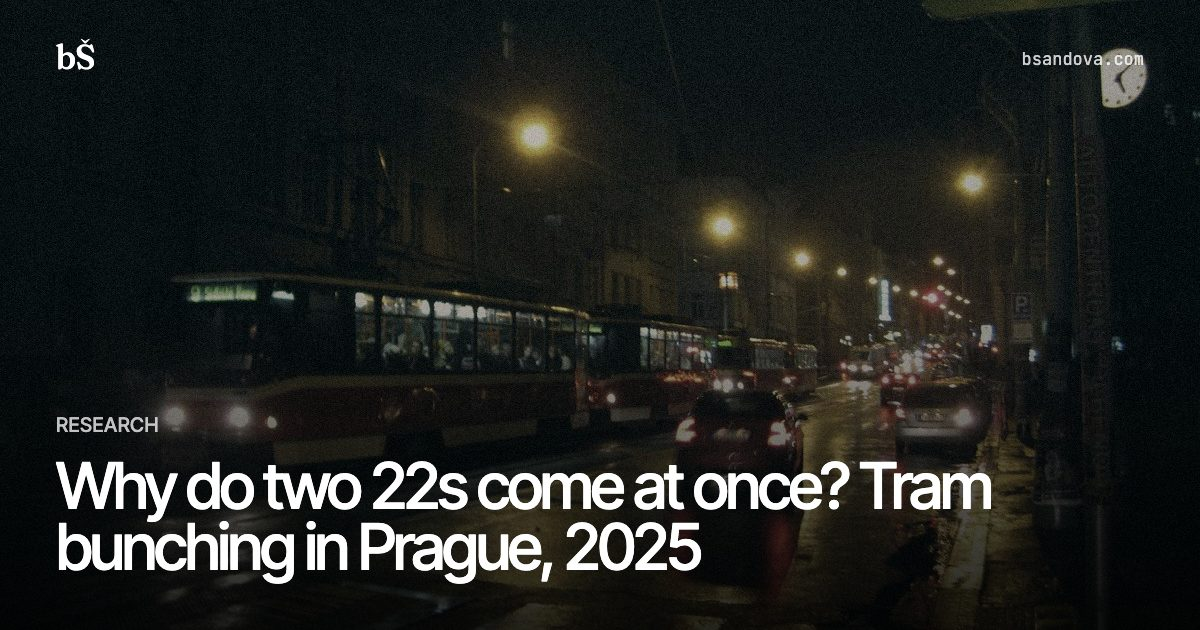
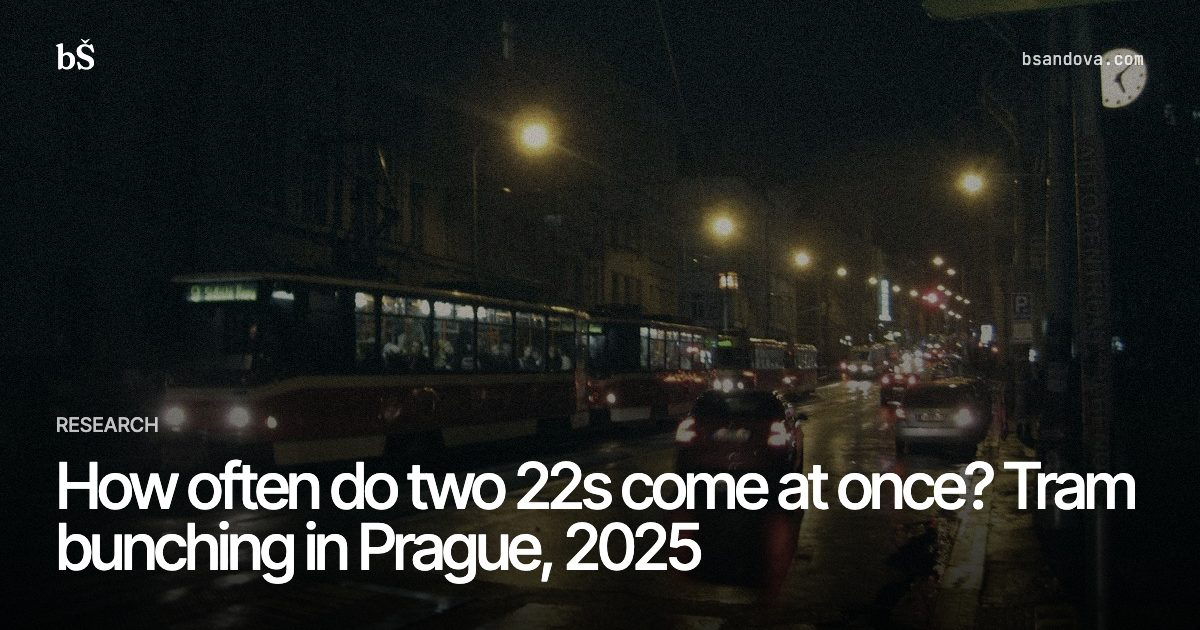
hotfix(bunching): retitle part 2 to how often two 22s come at once

Changed region(s): [[0.0308, 0.7238, 0.9558, 0.8444]]

diff --git a/texts/bunching.html b/texts/bunching.html
@@ -3,9 +3,9 @@
 <head>
 <meta charset="utf-8">
 <meta name="viewport" content="width=device-width, initial-scale=1">
-<title>Why do two 22s come at once? Tram bunching in Prague, 2025</title>
+<title>How often do two 22s come at once? Tram bunching in Prague, 2025</title>
 <meta name="description" content="A pre-specified analysis of 243 465 pairs of Prague trams in 2025: the spacing between two trams of a line drifts apart and together stop by stop with practically no amplification, bunches build gradually towards the end of a line, and the rare sudden closings concentrate on some platforms, and partly by line.">
-<meta property="og:title" content="Why do two 22s come at once? Tram bunching in Prague, 2025">
+<meta property="og:title" content="How often do two 22s come at once? Tram bunching in Prague, 2025">
 <meta property="og:description" content="Two trams of the same Prague line drift apart and together stop by stop with practically no amplification; bunches build slowly towards the end of the line. Part 2 of Running late.">
 <meta property="og:type" content="article">
 <meta property="og:url" content="https://bsandova.com/texts/bunching">
@@ -33,7 +33,7 @@
 <article class="text">
 <header class="text-head">
   <p class="kicker">Research · Running late, part 2 · Prague trams and buses, spring and summer 2025</p>
-  <h1>Why do two 22s come at once? <em>Tram bunching in Prague, 2025</em></h1>
+  <h1>How often do two 22s come at once? <em>Tram bunching in Prague, 2025</em></h1>
   <p class="deck">Followed stop by stop, the spacing between two trams of the same line shows practically no amplification, inconclusive by the registered rule, and bunches build gradually towards the end of a line.</p>
   <dl class="facts">
     <div><dt>amplification per stop</dt><dd>−0.0012 <small>95 % confidence interval (CI) −0.0018 to −0.0006 · inconclusive (wholly below zero), practically zero</small></dd></div>
@@ -53,7 +53,7 @@
   </ul>
 </details>
 <dl class="meta">
-  <div><dt>published</dt><dd>8 October 2026 · updated 8 October 2026 · <a href="../changelog/#bunching">version 2</a></dd></div>
+  <div><dt>published</dt><dd>8 October 2026 · updated 9 October 2026 · <a href="../changelog/#bunching">version 3</a></dd></div>
   <div><dt>work since</dt><dd>October 2026</dd></div>
 </dl>
 <details class="meta-more">
@@ -64,7 +64,7 @@
   <div><dt>registration</dt><dd>design committed at <code>2b78211</code> (tag <code>late-bunching-design</code>) on 8 October 2026, before any headway was computed; screening at <code>65789a6</code> (tag <code>late-bunching-screen</code>); estimation code frozen with tests at <code>83f91ec</code> (tag <code>late-bunching-v1</code>), with the change of the primary estimand logged before it; results at <code>8dc4eea</code> (tag <code>late-bunching-results</code>). Commit times are self-reported; the tags were added after publication and are not independent timestamps. Arrival times had been read before for <a href="weather-rails">Weather on the rails</a> and <a href="delay-origins">part 1</a>, never as the spacing between two trams. Described after the results, not registered: how bunches form, the deeper instruments, intervals for two variants, the volatility of the platforms, the busiest places, the pooling of swaps in the comparison with the shuffle, line 9 and the ratio without it, the autocorrelation of the changes, the power simulation for the stability test, and the checks on buses (<code>tools/bunch/describe.py</code>, <code>describe_bus.py</code>); added after publication, the null within route variants and the estimates by line (<code>review.py</code>). Changes after registration and after publication, each dated, are in <a href="../changelog/#bunching-changes">the change log</a>.</dd></div>
   <div><dt>data</dt><dd>Prague Integrated Transport stop-time history via Golemio, 15 March – 8 September 2025, as used in the author's master's thesis<sup class="cite"><a href="#r1">1</a></sup><sup class="cite"><a href="#r2">2</a></sup>; stop positions from the PID timetable data<sup class="cite"><a href="#r3">3</a></sup>. The passes are not redistributed; the per-segment values are in <a href="../assets/bunch/segments.json">segments.json</a>, the estimates in <a href="../assets/bunch/results.json">results.json</a> and <a href="../assets/bunch/results-bus.json">results-bus.json</a>, the descriptions in <a href="../assets/bunch/describe.json">describe.json</a> and <a href="../assets/bunch/review.json">review.json</a>.</dd></div>
   <div><dt>code</dt><dd><a href="https://github.com/sandovabarbora/bsandova.com/tree/main/tools/bunch">tools/bunch/</a>; rebuild: <code>uv run --with numpy --with pandas --with pyarrow --with scipy --with duckdb python tools/bunch/estimate.py</code></dd></div>
-  <div><dt>cite as</dt><dd>Šandová, B. (2026). <i>Why do two 22s come at once? Tram bunching in Prague, 2025</i>. bsandova.com/texts/bunching, version 2.</dd></div>
+  <div><dt>cite as</dt><dd>Šandová, B. (2026). <i>How often do two 22s come at once? Tram bunching in Prague, 2025</i>. bsandova.com/texts/bunching, version 3.</dd></div>
   <div><dt>licence</dt><dd>code MIT; text and figures CC BY 4.0</dd></div>
 </dl>
 </details>

diff --git a/tools/bunch/template.html b/tools/bunch/template.html
@@ -3,9 +3,9 @@
 <head>
 <meta charset="utf-8">
 <meta name="viewport" content="width=device-width, initial-scale=1">
-<title>Why do two 22s come at once? Tram bunching in Prague, 2025</title>
+<title>How often do two 22s come at once? Tram bunching in Prague, 2025</title>
 <meta name="description" content="A pre-specified analysis of {{pairs}} pairs of Prague trams in 2025: the spacing between two trams of a line drifts apart and together stop by stop with practically no amplification, bunches build gradually towards the end of a line, and the rare sudden closings concentrate on some platforms, and partly by line.">
-<meta property="og:title" content="Why do two 22s come at once? Tram bunching in Prague, 2025">
+<meta property="og:title" content="How often do two 22s come at once? Tram bunching in Prague, 2025">
 <meta property="og:description" content="Two trams of the same Prague line drift apart and together stop by stop with practically no amplification; bunches build slowly towards the end of the line. Part 2 of Running late.">
 <meta property="og:type" content="article">
 <meta property="og:url" content="https://bsandova.com/texts/bunching">
@@ -33,7 +33,7 @@
 <article class="text">
 <header class="text-head">
   <p class="kicker">Research · Running late, part 2 · Prague trams and buses, spring and summer 2025</p>
-  <h1>Why do two 22s come at once? <em>Tram bunching in Prague, 2025</em></h1>
+  <h1>How often do two 22s come at once? <em>Tram bunching in Prague, 2025</em></h1>
   <p class="deck">Followed stop by stop, the spacing between two trams of the same line shows practically no amplification, {{g_label}} by the registered rule, and bunches build gradually towards the end of a line.</p>
   <dl class="facts">
     <div><dt>amplification per stop</dt><dd>{{g}} <small>95 % confidence interval (CI) {{g_lo}} to {{g_hi}} · {{g_label}} (wholly below zero), practically zero</small></dd></div>
@@ -53,7 +53,7 @@
   </ul>
 </details>
 <dl class="meta">
-  <div><dt>published</dt><dd>8 October 2026 · updated 8 October 2026 · <a href="../changelog/#bunching">version 2</a></dd></div>
+  <div><dt>published</dt><dd>8 October 2026 · updated 9 October 2026 · <a href="../changelog/#bunching">version 3</a></dd></div>
   <div><dt>work since</dt><dd>October 2026</dd></div>
 </dl>
 <details class="meta-more">
@@ -64,7 +64,7 @@
   <div><dt>registration</dt><dd>design committed at <code>2b78211</code> (tag <code>late-bunching-design</code>) on 8 October 2026, before any headway was computed; screening at <code>65789a6</code> (tag <code>late-bunching-screen</code>); estimation code frozen with tests at <code>83f91ec</code> (tag <code>late-bunching-v1</code>), with the change of the primary estimand logged before it; results at <code>8dc4eea</code> (tag <code>late-bunching-results</code>). Commit times are self-reported; the tags were added after publication and are not independent timestamps. Arrival times had been read before for <a href="weather-rails">Weather on the rails</a> and <a href="delay-origins">part 1</a>, never as the spacing between two trams. Described after the results, not registered: how bunches form, the deeper instruments, intervals for two variants, the volatility of the platforms, the busiest places, the pooling of swaps in the comparison with the shuffle, line 9 and the ratio without it, the autocorrelation of the changes, the power simulation for the stability test, and the checks on buses (<code>tools/bunch/describe.py</code>, <code>describe_bus.py</code>); added after publication, the null within route variants and the estimates by line (<code>review.py</code>). Changes after registration and after publication, each dated, are in <a href="../changelog/#bunching-changes">the change log</a>.</dd></div>
   <div><dt>data</dt><dd>Prague Integrated Transport stop-time history via Golemio, 15 March – 8 September 2025, as used in the author's master's thesis<sup class="cite"><a href="#r1">1</a></sup><sup class="cite"><a href="#r2">2</a></sup>; stop positions from the PID timetable data<sup class="cite"><a href="#r3">3</a></sup>. The passes are not redistributed; the per-segment values are in <a href="../assets/bunch/segments.json">segments.json</a>, the estimates in <a href="../assets/bunch/results.json">results.json</a> and <a href="../assets/bunch/results-bus.json">results-bus.json</a>, the descriptions in <a href="../assets/bunch/describe.json">describe.json</a> and <a href="../assets/bunch/review.json">review.json</a>.</dd></div>
   <div><dt>code</dt><dd><a href="https://github.com/sandovabarbora/bsandova.com/tree/main/tools/bunch">tools/bunch/</a>; rebuild: <code>uv run --with numpy --with pandas --with pyarrow --with scipy --with duckdb python tools/bunch/estimate.py</code></dd></div>
-  <div><dt>cite as</dt><dd>Šandová, B. (2026). <i>Why do two 22s come at once? Tram bunching in Prague, 2025</i>. bsandova.com/texts/bunching, version 2.</dd></div>
+  <div><dt>cite as</dt><dd>Šandová, B. (2026). <i>How often do two 22s come at once? Tram bunching in Prague, 2025</i>. bsandova.com/texts/bunching, version 3.</dd></div>
   <div><dt>licence</dt><dd>code MIT; text and figures CC BY 4.0</dd></div>
 </dl>
 </details>

diff --git a/docs/changelogs/bunching.html b/docs/changelogs/bunching.html
@@ -11,6 +11,7 @@
 </ul>
 <h4>Change log</h4>
 <ul>
+<li>9 October 2026, version 3: retitled from "Why do two 22s come at once? Tram bunching in Prague, 2025" to "How often do two 22s come at once? Tram bunching in Prague, 2025" (URL unchanged): the study measures how often, not why; it locates bunching and sudden closings but does not identify a mechanism. No number changed.</li>
 <li>9 October 2026: the page description says the rare sudden closings concentrate on some platforms "and partly by line" instead of "partly because of one line", the wording of the article, which locates the closings but does not explain them. No number or finding changed.</li>
 <li>9 October 2026: the link to part 1 of Weather on the rails carries that article's new title, "Are Prague's trams later in rain hours?"; nothing else changed.</li>
 <li>8 October 2026, version 2, after an independent review: retitled "Why do two 22s come at once? Tram bunching in Prague, 2025" (the analysis covers pairs only; the URL is kept). Amplification relabelled from "not supported" to "inconclusive" (the registered rule had been applied in the wrong order), read as practically zero, with the sign flipping without timing-point stops and on departures. Concentration of sudden closings keeps its registered "supported" but is no longer read as places that make bunches: re-openings, the reversed-order placebo and closings to under a third of the gap concentrate as much or more, and a post-hoc null within route variants gives a lower ratio. Stability of the places keeps "not supported", now marked uninformative, with a stable line effect as an alternative reading. The link to part 1 keeps "supported", now marked not informative (built in), and leaves the short version. The shuffle is no longer read as showing bunches build as fast as independent drift: it lets trams swap order and is not a valid benchmark near zero. "Where the spacing suddenly closes it also suddenly reopens" replaced by the counts of closings and re-openings and what the platform correlation measures. The dropped trips with a missing row and the floor this sets on bunching shares are stated, with the full account of how bunches form. Wording: the first-stage coefficient, "eligible pair-stops", 0.9989 shown unrounded, Anderson and Hsiao as the inspiration of the estimator, holding at long-dwell stops as an inference, the TCQSM cut-offs as unchecked conventions, the range of the amplification by line, and the bus estimate set against the spread of the tram estimates. Review claims reworded: the design draft was reviewed twice by an independent model-based reviewer; the article's review before publication was a self-review by the agent that wrote it. Registration tags cited beside the commit hashes.</li>

diff --git a/texts/running-late.html b/texts/running-late.html
@@ -6,7 +6,7 @@
 <title>Running late · Barbora Šandová</title>
 <meta name="description" content="Pre-specified studies of where and how Prague's trams fall behind, from the stop passes of 2025: a tenth of the segments record 50.6 % of the delay, narrowly, the same ones in odd and even weeks; and the spacing between two trams of a line shows practically no amplification from stop to stop; and a connection planned three minutes apart is made 80 times in a hundred.">
 <meta property="og:title" content="Running late">
-<meta property="og:description" content="Where and how Prague's trams fall behind, one pre-specified question at a time: where delay is recorded, why two trams of a line come at once, and whether you make your connection.">
+<meta property="og:description" content="Where and how Prague's trams fall behind, one pre-specified question at a time: where delay is recorded, how often two trams of a line come at once, and whether you make your connection.">
 <meta property="og:type" content="article">
 <meta property="og:url" content="https://bsandova.com/texts/running-late">
 <meta property="og:image" content="https://bsandova.com/assets/og/running-late.jpg">
@@ -63,10 +63,10 @@
     </div>
   </li>
   <li>
-    <a class="still" href="bunching" aria-label="Part 2, Why do two 22s come at once?"><span class="shot" style="view-transition-name:ph-bunching;--bg:url(../assets/photo/bunching.jpg);--bg-s:url(../assets/photo/bunching-1200.jpg)"></span></a>
+    <a class="still" href="bunching" aria-label="Part 2, How often do two 22s come at once?"><span class="shot" style="view-transition-name:ph-bunching;--bg:url(../assets/photo/bunching.jpg);--bg-s:url(../assets/photo/bunching-1200.jpg)"></span></a>
     <div>
       <p class="n">Part 2 · bunching · 243 465 pairs of trams, 15 March – 8 September 2025</p>
-      <h2><a href="bunching">Why do two 22s come at once? Tram bunching in Prague, 2025</a></h2>
+      <h2><a href="bunching">How often do two 22s come at once? Tram bunching in Prague, 2025</a></h2>
       <p>The spacing between two trams of a line shows practically no amplification from stop to stop (−0.0012 per stop, inconclusive by the registered rule, corrected in its version 2), and bunches build gradually towards the end of a line. The rare sudden closings concentrate on some platforms, as other rare one-stop events do, and partly by line. City buses show a small positive value (+0.0021, supported), about the size of the spread among the tram estimates.</p>
     </div>
   </li>

diff --git a/index.html b/index.html
@@ -288,7 +288,7 @@ main :focus-visible,.ft :focus-visible{outline-color:currentColor}
         <li class="sub"><a href="texts/rain-dwell"><span class="t">Part 3 · Are tram stops shorter in rain?</span><span class="c">Research</span><span class="s">pre-specified</span><span class="y" title="published 8 Oct 2026">Oct 2026</span></a></li>
         <li><a href="texts/running-late"><span class="t">Running late</span><span class="c">Hub · series of three</span><span class="s">published</span><span class="y" title="published 8 Oct 2026">Oct 2026</span></a></li>
         <li class="sub"><a href="texts/delay-origins"><span class="t">Part 1 · Where is delay born on Prague&#x27;s trams?</span><span class="c">Research</span><span class="s">pre-specified</span><span class="y" title="published 8 Oct 2026">Oct 2026</span></a></li>
-        <li class="sub"><a href="texts/bunching"><span class="t">Part 2 · Why do two 22s come at once? Tram bunching in Prague, 2025</span><span class="c">Research</span><span class="s">pre-specified</span><span class="y" title="published 8 Oct 2026">Oct 2026</span></a></li>
+        <li class="sub"><a href="texts/bunching"><span class="t">Part 2 · How often do two 22s come at once? Tram bunching in Prague, 2025</span><span class="c">Research</span><span class="s">pre-specified</span><span class="y" title="published 8 Oct 2026">Oct 2026</span></a></li>
         <li class="sub"><a href="texts/transfers"><span class="t">Part 3 · Will you make your connection?</span><span class="c">Research</span><span class="s">pre-specified</span><span class="y" title="published 8 Oct 2026">Oct 2026</span></a></li>
         <li><a href="texts/annual-pass"><span class="t">How did passenger counts move around cheaper annual passes in Vienna and Prague?</span><span class="c">Note</span><span class="s">note, descriptive</span><span class="y" title="published 6 Oct 2026">Oct 2026</span></a></li>
         <li><a href="texts/dst-darkness"><span class="t">When the clocks go back: evening darkness and pedestrian crashes in Czechia</span><span class="c">Research</span><span class="s">pre-specified</span><span class="y" title="published 3 Oct 2026">Oct 2026</span></a></li>

diff --git a/docs/changelogs/running-late.html b/docs/changelogs/running-late.html
@@ -1,4 +1,5 @@
 <ul>
+<li>9 October 2026: part 2 carries its new title, "How often do two 22s come at once? Tram bunching in Prague, 2025", and the social card says the series asks how often, not why, two trams of a line come at once. No number changed.</li>
 <li>9 October 2026: wording made descriptive: the deck, description and social card say "where and how" Prague's trams fall behind instead of "where and why", and the link to Weather on the rails says it describes how the same trams' delays differ in rain and heat, instead of asking "what rain and heat do" to them. No number or finding changed.</li>
 <li>8 October 2026, version 5: part 3's summary corrected after a model-based review: the co-movement given with its range across specifications and the differences between pairs of lines, the bounds that overwrote observed outcomes removed, and no cause implied.</li>
 <li>8 October 2026, version 4: part 3 added (whether a tram connection is made), with its bounds in the summary; the section on the next question removed.</li>

diff --git a/tools/late/hub.py b/tools/late/hub.py
@@ -54,7 +54,7 @@ TEMPLATE = '''<!doctype html>
 <title>Running late · Barbora Šandová</title>
 <meta name="description" content="Pre-specified studies of where and how Prague's trams fall behind, from the stop passes of 2025: a tenth of the segments record {{S}} % of the delay, narrowly, the same ones in odd and even weeks; and the spacing between two trams of a line shows practically no amplification from stop to stop; and a connection planned three minutes apart is made {{m3}} times in a hundred.">
 <meta property="og:title" content="Running late">
-<meta property="og:description" content="Where and how Prague's trams fall behind, one pre-specified question at a time: where delay is recorded, why two trams of a line come at once, and whether you make your connection.">
+<meta property="og:description" content="Where and how Prague's trams fall behind, one pre-specified question at a time: where delay is recorded, how often two trams of a line come at once, and whether you make your connection.">
 <meta property="og:type" content="article">
 <meta property="og:url" content="https://bsandova.com/texts/running-late">
 <meta property="og:image" content="https://bsandova.com/assets/og/running-late.jpg">
@@ -111,10 +111,10 @@ TEMPLATE = '''<!doctype html>
     </div>
   </li>
   <li>
-    <a class="still" href="bunching" aria-label="Part 2, Why do two 22s come at once?"><span class="shot" style="view-transition-name:ph-bunching;--bg:url(../assets/photo/bunching.jpg);--bg-s:url(../assets/photo/bunching-1200.jpg)"></span></a>
+    <a class="still" href="bunching" aria-label="Part 2, How often do two 22s come at once?"><span class="shot" style="view-transition-name:ph-bunching;--bg:url(../assets/photo/bunching.jpg);--bg-s:url(../assets/photo/bunching-1200.jpg)"></span></a>
     <div>
       <p class="n">Part 2 · bunching · {{pairs}} pairs of trams, 15 March – 8 September 2025</p>
-      <h2><a href="bunching">Why do two 22s come at once? Tram bunching in Prague, 2025</a></h2>
+      <h2><a href="bunching">How often do two 22s come at once? Tram bunching in Prague, 2025</a></h2>
       <p>The spacing between two trams of a line shows practically no amplification from stop to stop ({{g}} per stop, {{g_label}} by the registered rule, corrected in its version 2), and bunches build gradually towards the end of a line. The rare sudden closings concentrate on some platforms, as other rare one-stop events do, and partly by line. City buses show a small positive value ({{bg}}, {{bg_label}}), about the size of the spread among the tram estimates.</p>
     </div>
   </li>

diff --git a/tools/bunch/article.py b/tools/bunch/article.py
@@ -1,4 +1,4 @@
-"""Why do two 22s come at once: figures, the map and the article, every number from the result files.
+"""How often do two 22s come at once: figures, the map and the article, every number from the result files.
 
 Reads docs/research/bunching-{results,results-bus,screen,describe,describe-bus,review}.json and the tram pair tables in tools/data/bunch/;
 writes assets/bunch/ (charts.json, map.json, segments.json, results.json, describe.json, static SVGs) and
